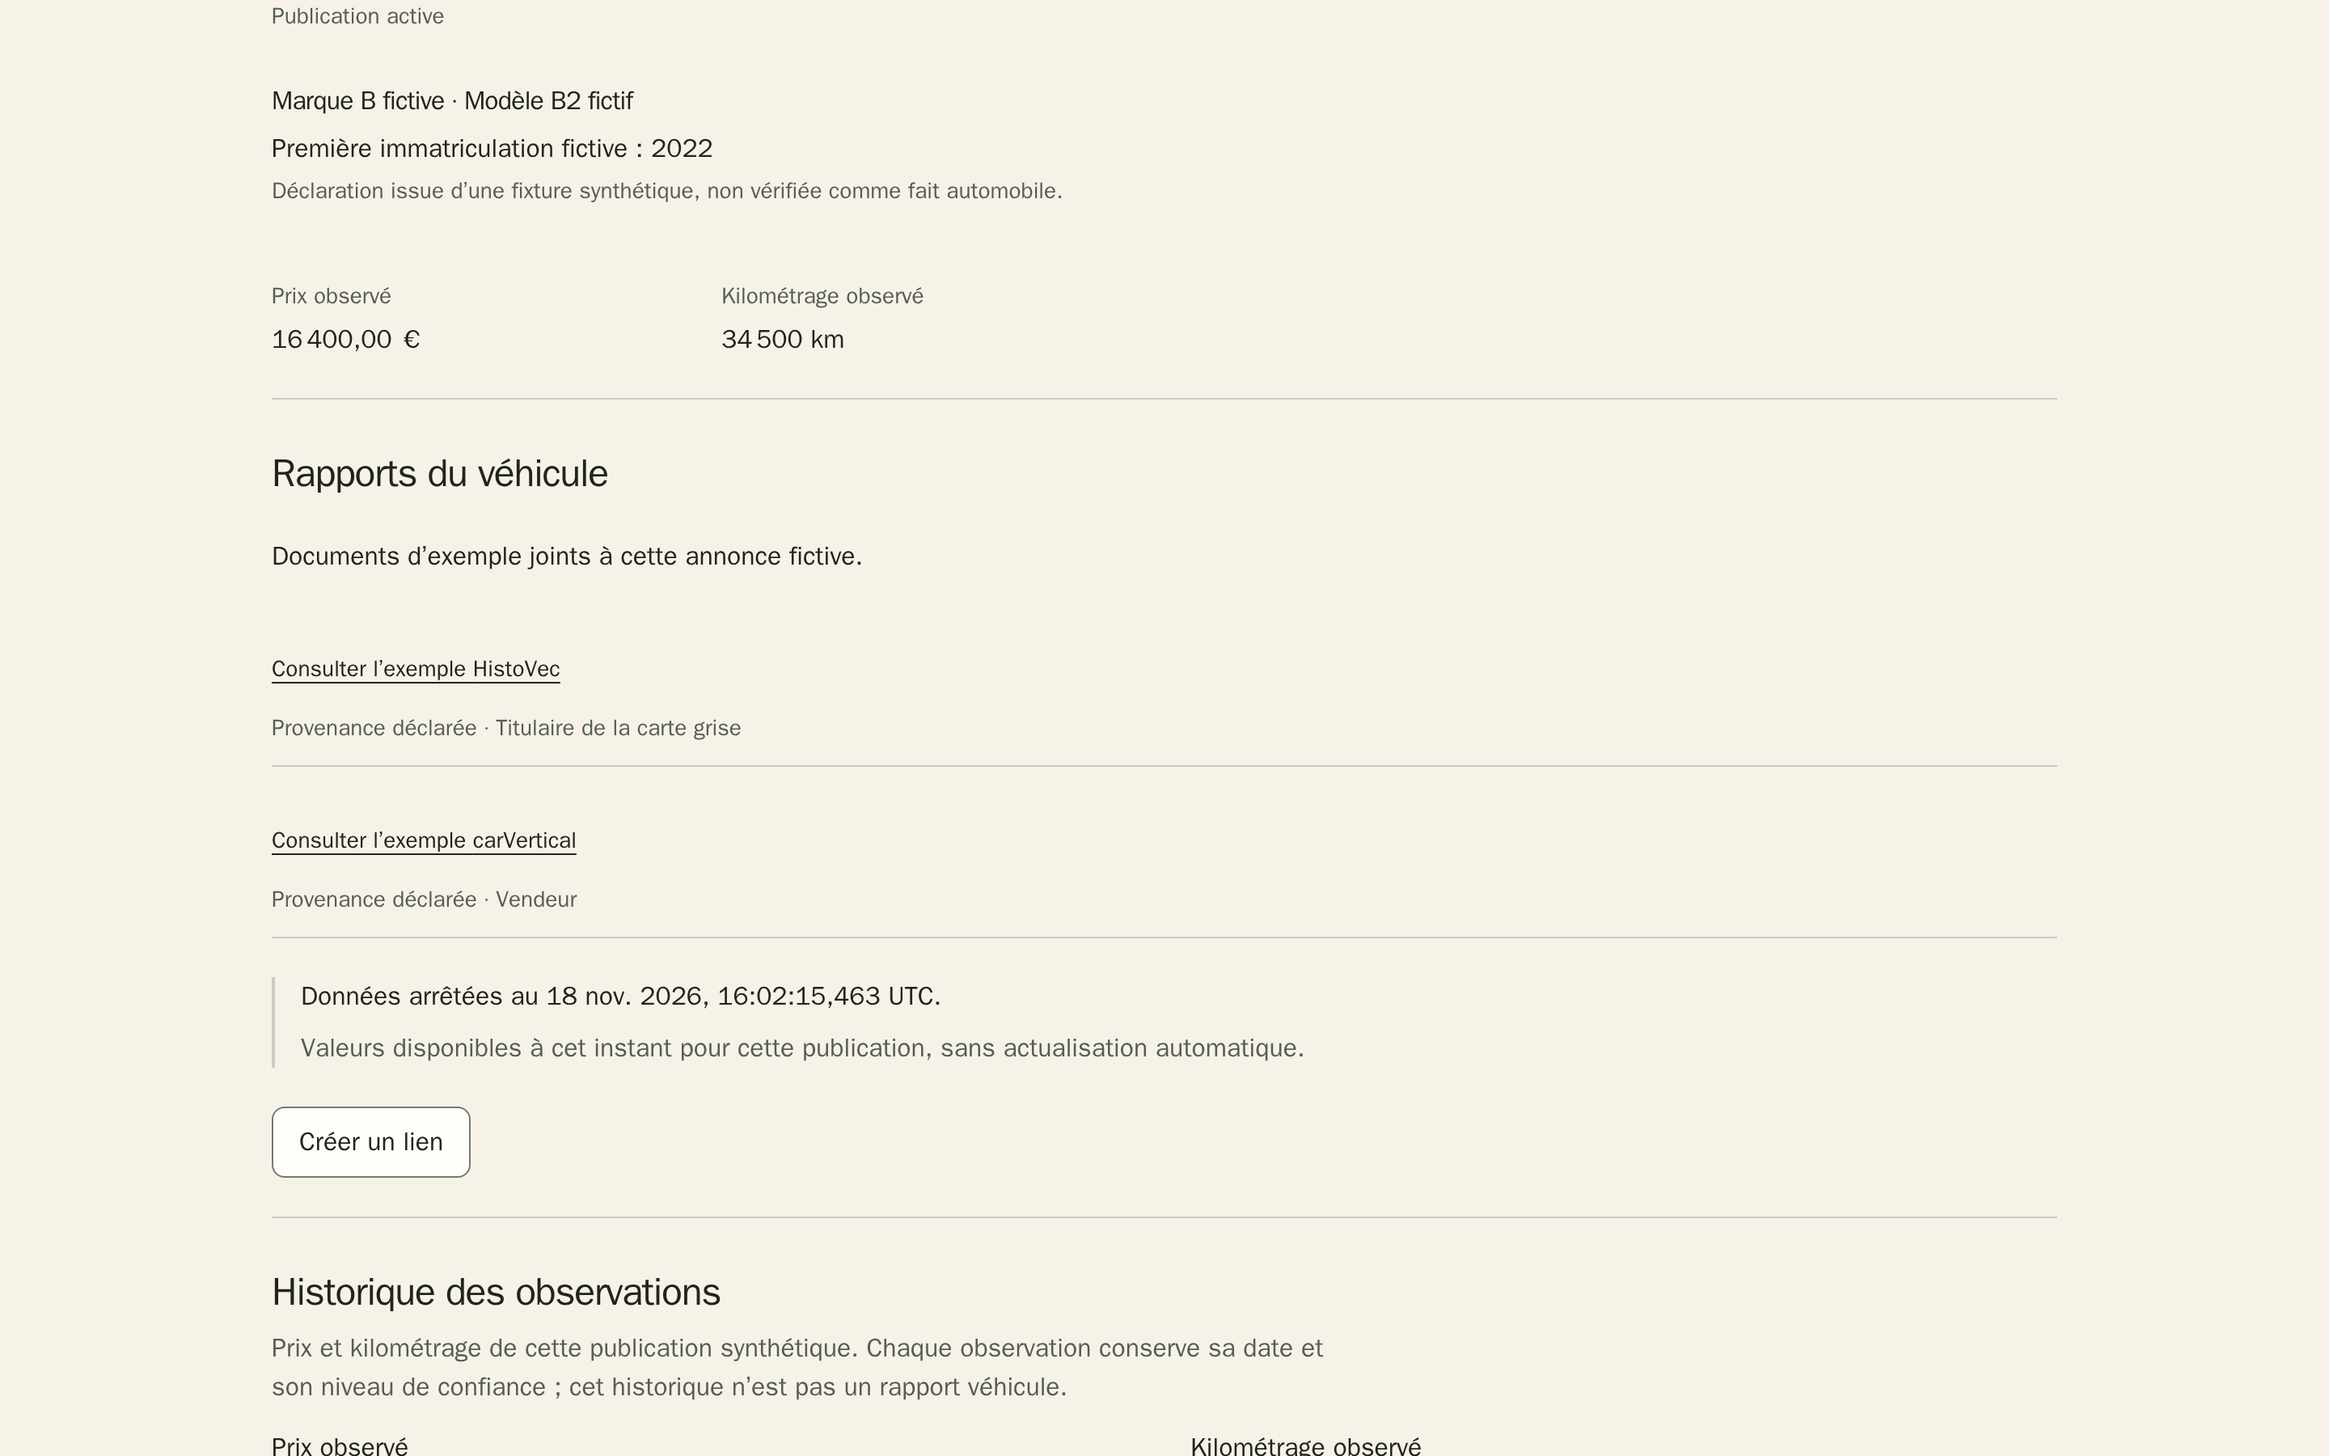
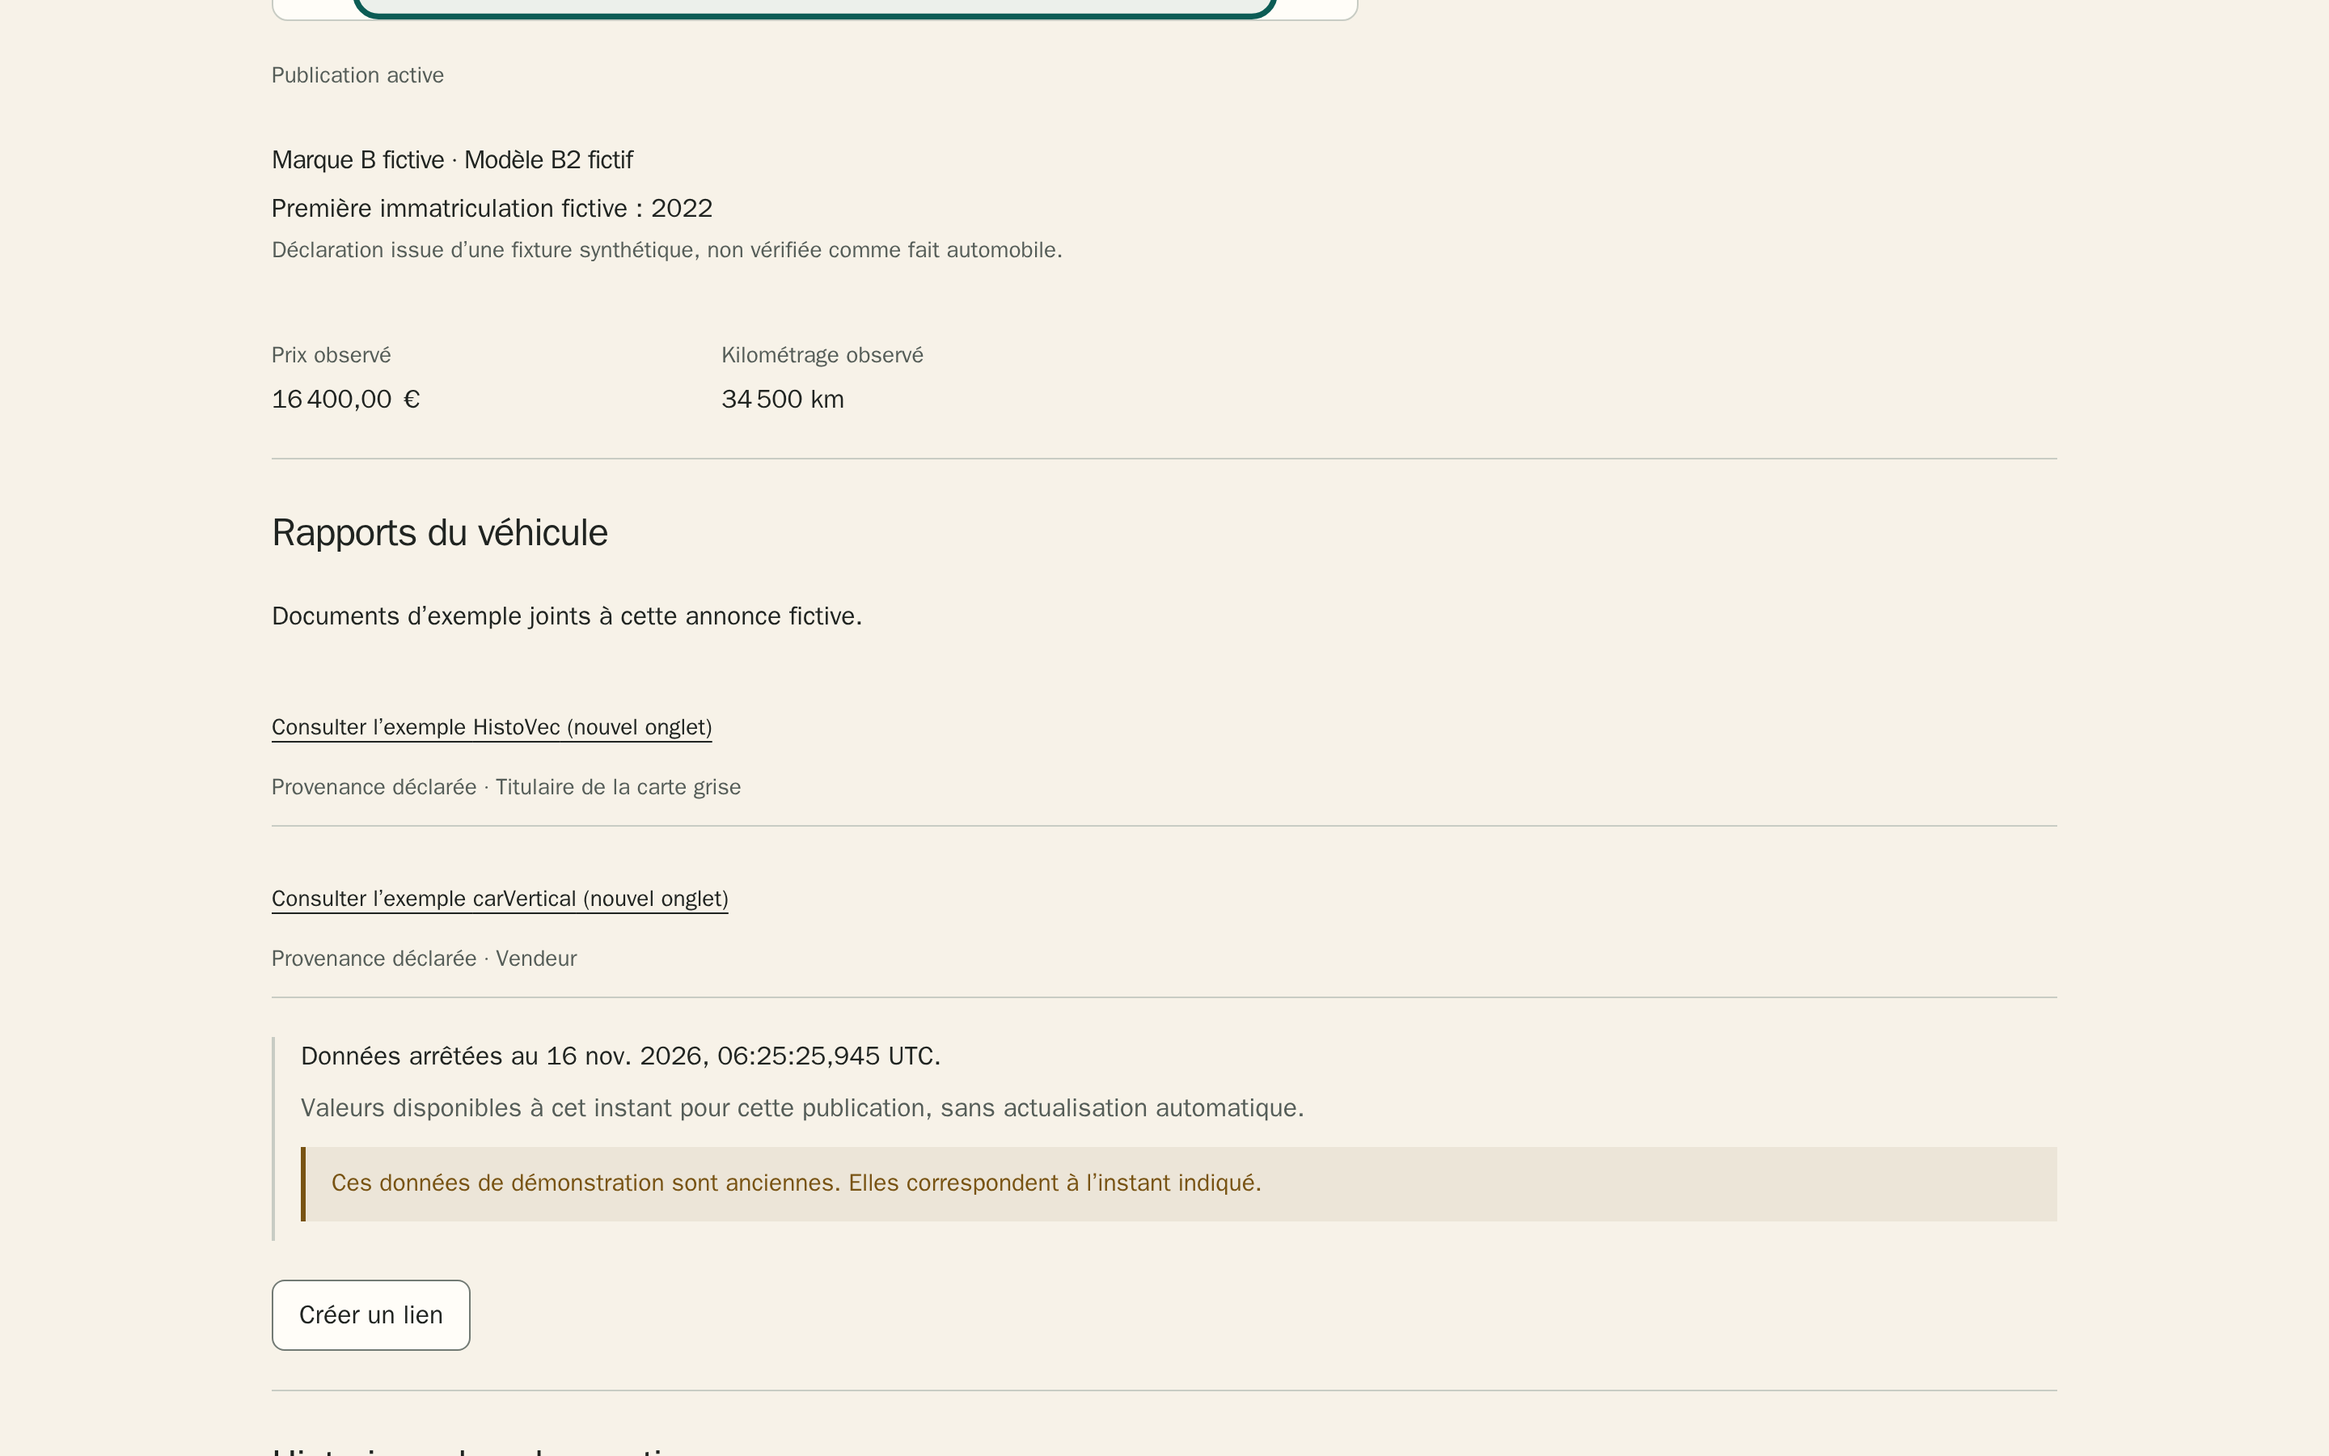
fix(web): preserve listing search and verify the active report corpus

diff --git a/apps/web/test/ui/vehicle-reports.spec.ts b/apps/web/test/ui/vehicle-reports.spec.ts
@@ -7,7 +7,7 @@ const empty = "lst_84b7ff767f88174f457564d86c2e36bcfaea6d1cef341b7c0b69645a25adb
 test("normal demo results open the supplied local documents and switch report sets with the listing", async ({ page, baseURL }) => {
   const external = new Set<string>();
   const documentRequests: string[] = [];
-  page.on("request", (request) => {
+  page.context().on("request", (request) => {
     const url = new URL(request.url());
     if (url.origin !== baseURL) external.add(url.origin);
     if (url.pathname.startsWith("/demo/rapports/")) documentRequests.push(url.pathname);
@@ -21,26 +21,36 @@ test("normal demo results open the supplied local documents and switch report se
   await expect(section.getByRole("link")).toHaveCount(2);
   expect(documentRequests).toEqual([]);
 
-  for (const [provider, document] of [["HistoVec", "b2-parcours"], ["carVertical", "b2-kilometrage"]] as const) {
-    const destination = `/demo/rapports/${multiple}/${document}`;
-    await section.getByRole("link", { name: new RegExp(provider, "u") }).click();
-    await expect(page).toHaveURL(new URL(destination, baseURL).href);
-    await expect(page.getByRole("heading", { level: 1 })).toContainText(provider);
-    await page.getByRole("link", { name: "Retour à l’annonce" }).click();
-    await expect(section).toBeVisible();
+  async function readReport(provider: string, listingId: string, document: string) {
+    const trigger = section.getByRole("link", { name: new RegExp(provider, "u") });
+    const [reader] = await Promise.all([page.waitForEvent("popup"), trigger.click()]);
+    const destination = `/demo/rapports/${listingId}/${document}#depuis-annonce`;
+    await expect(reader).toHaveURL(new URL(destination, baseURL).href);
+    await expect(reader.getByRole("heading", { level: 1 })).toContainText(provider);
+    await Promise.all([
+      reader.waitForEvent("close"),
+      reader.getByRole("link", { name: "Retour à l’annonce" }).click(),
+    ]);
+    await expect(page).toHaveURL(new URL(`/demo#detail/${listingId}`, baseURL).href);
   }
+
+  await readReport("HistoVec", multiple, "b2-parcours");
+  await readReport("carVertical", multiple, "b2-kilometrage");
+  await page.getByRole("button", { name: "Retour aux résultats" }).click();
+  await expect(page.locator("#demo-result-open-0")).toBeFocused();
+  await page.locator("#demo-result-open-0").click();
   await page.evaluate((id) => { location.hash = `detail/${id}`; }, single);
   await expect(section.getByRole("link")).toHaveCount(1);
-  await section.getByRole("link", { name: /CARFAX/u }).click();
-  await expect(page).toHaveURL(new URL(`/demo/rapports/${single}/b1-entretien`, baseURL).href);
-  await page.getByRole("link", { name: "Retour à l’annonce" }).click();
+  await readReport("CARFAX", single, "b1-entretien");
   await page.evaluate((id) => { location.hash = `detail/${id}`; }, empty);
-  await expect(section.getByRole("link")).toHaveCount(1);
   await expect(section.getByRole("link")).toHaveAttribute("href", "/historique-vehicule");
   expect(external.size).toBe(0);
 });
 
-test("the reader rejects swapped documents and disabled-demo access", async ({ request }, testInfo) => {
+test("the reader rejects swapped documents and disabled-demo access", async ({ page, request }, testInfo) => {
+  await page.goto(`/demo/rapports/${multiple}/b2-parcours`);
+  await page.getByRole("link", { name: "Retour à l’annonce" }).click();
+  await expect(page.getByRole("region", { name: "Rapports du véhicule" }).getByRole("link")).toHaveCount(2);
   const wrong = await request.get(`/demo/rapports/${single}/b2-parcours`);
   expect(wrong.status()).toBe(404);
   const disabled = String(testInfo.config.metadata.demoDisabledBaseURL);

diff --git a/apps/web/src/app/demo/rapports/[listingId]/[documentId]/page.tsx b/apps/web/src/app/demo/rapports/[listingId]/[documentId]/page.tsx
@@ -1,8 +1,12 @@
 import { connection } from "next/server";
 import { notFound } from "next/navigation";
 
-import { resolveDemoBackendMode } from "../../../../../demo/backend";
-import { providerLabels, reportsForListing } from "../../../../../demo/vehicle-reports";
+import { demoBackendOrigin, resolveDemoBackendMode } from "../../../../../demo/backend";
+import { parseDemoHttpOutcomeV2, parsePublicListingId } from "../../../../../demo/protocol";
+import { readDemoBackendText } from "../../../../../demo/proxy";
+import { providerLabels, reportFixtureVersion, reportsForListing } from "../../../../../demo/vehicle-reports";
+
+import { ReturnToListing } from "../../return-to-listing";
 
 export const metadata = { title: "Document d’exemple — Auto World" };
 
@@ -13,12 +17,27 @@ export default async function ExampleReportPage({ params }: {
   if (resolveDemoBackendMode() !== "offline") notFound();
   const { listingId, documentId } = await params;
   const report = reportsForListing(listingId).find((item) => item.id === documentId);
-  if (!report) notFound();
+  const id = parsePublicListingId(listingId);
+  if (!report || !id) notFound();
+
+  const signal = AbortSignal.timeout(7_000);
+  let fixtureVersion: string | undefined;
+  try {
+    const response = await fetch(`${demoBackendOrigin("offline")}/v2/demo/listings/${id}`, {
+      cache: "no-store", redirect: "error", signal,
+    });
+    const source = await readDemoBackendText(response, signal);
+    const outcome = parseDemoHttpOutcomeV2(source, response.status, new Date().toISOString(), id);
+    if (outcome?.ok) fixtureVersion = outcome.data.fixtureVersion;
+  } catch {
+    // An unavailable listing cannot confirm that this document belongs to the active corpus.
+  }
+  if (fixtureVersion !== reportFixtureVersion) notFound();
 
   return (
     <main className="site-container">
       <nav className="site-toolbar" aria-label="Publication">
-        <a className="site-nav" href={`/demo#detail/${report.listingId}`}>Retour à l’annonce</a>
+        <ReturnToListing listingId={report.listingId} />
       </nav>
       <article className="site-intro">
         <p>{report.vehicle}</p>

diff --git a/apps/web/src/demo/proxy.ts b/apps/web/src/demo/proxy.ts
@@ -80,6 +80,13 @@ async function readBounded(stream: ReadableStream<Uint8Array> | null, limit: num
 }
 function decodeUtf8(bytes: Uint8Array): string { return new TextDecoder("utf-8", { fatal: true }).decode(bytes); }
 
+export async function readDemoBackendText(response: Response, signal: AbortSignal): Promise<string> {
+  if (!/^application\/json(?:;\s*charset=utf-8)?$/iu.test(response.headers.get("content-type") ?? "")) throw new TypeError("expected JSON");
+  const declared = response.headers.get("content-length");
+  if (declared !== null && (!/^(?:0|[1-9][0-9]*)$/u.test(declared) || Number(declared) > responseLimit)) throw new RangeError("invalid response size");
+  return decodeUtf8(await readBounded(response.body, responseLimit, signal));
+}
+
 export function createDemoProxyHandler(options: DemoProxyOptions): (request: Request, listingId?: string) => Promise<Response> {
   const fetchImpl = options.fetchImpl ?? fetch;
   const clock = options.clock ?? (() => new Date());
@@ -150,11 +157,8 @@ export function createDemoProxyHandler(options: DemoProxyOptions): (request: Req
         redirect: "error",
       });
       if (controller.signal.aborted) return finish(localError("cancelled", schemaVersion), "cancelled");
-      if (!/^application\/json(?:;\s*charset=utf-8)?$/iu.test(upstream.headers.get("content-type") ?? "")) return finish(localError("read_unavailable", schemaVersion), "read_unavailable");
-      const declared = upstream.headers.get("content-length");
-      if (declared !== null && (!/^(?:0|[1-9][0-9]*)$/u.test(declared) || Number(declared) > responseLimit)) return finish(localError("read_unavailable", schemaVersion), "read_unavailable");
       let source: string;
-      try { source = decodeUtf8(await readBounded(upstream.body, responseLimit, controller.signal)); }
+      try { source = await readDemoBackendText(upstream, controller.signal); }
       catch {
         const code: DemoHttpErrorCode = controller.signal.aborted ? "cancelled" : "read_unavailable";
         return finish(localError(code, schemaVersion), code);

diff --git a/apps/web/src/app/demo/demo-app.tsx b/apps/web/src/app/demo/demo-app.tsx
@@ -49,6 +49,7 @@ import { ComparisonLinkReview, type ComparisonLinkLoadState, type ComparisonLink
 import { DetailSnapshot } from "./history-components";
 import { SaveComparisonControl, SavedComparisonsSection, type SaveComparisonResult } from "./saved-comparison-components";
 import { SavedSearchesSection } from "./saved-search-components";
+import { reportFixtureVersion } from "../../demo/vehicle-reports";
 import { VehicleReports } from "./vehicle-reports";
 import { PublicationLinkCreator, SearchLinkCreator, SearchLinkReview } from "./search-link-components";
 
@@ -1696,7 +1697,7 @@ export function DemoApp({ enabled, storageNamespace = "offline" }: { readonly en
               <NeutralIllustration />
               <p className="demo-status">{acceptedDetail.result.availability === "active" ? "Publication active" : acceptedDetail.result.availability === "withdrawn" ? "Publication retirée" : acceptedDetail.result.availability === "deleted" ? "Publication supprimée" : "Publication introuvable"}</p>
               <ResultSummary result={acceptedDetail.result} catalog={matchingCatalog(catalogData, acceptedDetail.response)} />
-              <VehicleReports listingId={acceptedDetail.result.listingId} hasExampleCorpus={storageNamespace === "offline" && acceptedDetail.response.fixtureVersion === "synthetic-description-v2"} />
+              <VehicleReports listingId={acceptedDetail.result.listingId} hasExampleCorpus={storageNamespace === "offline" && acceptedDetail.response.fixtureVersion === reportFixtureVersion} />
               <DetailSnapshot response={acceptedDetail.response} online={online} />
               <PublicationLinkCreator listingId={acceptedDetail.result.listingId} />
               <EvidenceDetails result={acceptedDetail.result} catalog={matchingCatalog(catalogData, acceptedDetail.response)} />

diff --git a/apps/web/src/app/demo/vehicle-reports.tsx b/apps/web/src/app/demo/vehicle-reports.tsx
@@ -11,8 +11,8 @@ export function VehicleReports({ listingId, hasExampleCorpus }: { readonly listi
           <ul className="demo-evidence-list">
             {reports.map((report) => (
               <li key={report.id}>
-                <a className="site-nav" href={report.href} referrerPolicy="no-referrer">
-                  Consulter l’exemple {providerLabels[report.provider]}
+                <a className="site-nav" href={`${report.href}#depuis-annonce`} target="_blank" rel="noopener noreferrer">
+                  Consulter l’exemple {providerLabels[report.provider]} (nouvel onglet)
                 </a>
                 <span>Provenance déclarée · {report.suppliedBy === "titulaire" ? "Titulaire de la carte grise" : "Vendeur"}</span>
               </li>

diff --git a/apps/web/src/app/demo/rapports/return-to-listing.tsx b/apps/web/src/app/demo/rapports/return-to-listing.tsx
@@ -1,0 +1,12 @@
+"use client";
+
+export function ReturnToListing({ listingId }: { readonly listingId: string }) {
+  return (
+    <a className="site-nav" href={`/demo#detail/${listingId}`} onClick={(event) => {
+      if (event.metaKey || event.ctrlKey || event.altKey || event.shiftKey) return;
+      if (window.location.hash === "#depuis-annonce" && window.history.length === 1) window.close();
+    }}>
+      Retour à l’annonce
+    </a>
+  );
+}

diff --git a/apps/web/src/demo/vehicle-reports.ts b/apps/web/src/demo/vehicle-reports.ts
@@ -1,4 +1,4 @@
-// Public identifiers from the normal synthetic-description-v2 search corpus.
+export const reportFixtureVersion = "synthetic-description-v2";
 const borealB2 = "lst_5696220ef97cf2af439e0279456ea36c70dd3df4e97b4455fc1577fa81aa8863";
 const borealB1 = "lst_5b1bfbea35a7f70ba8a6358f2c1dca6e4a243af7e2e95df49d127fcaae748c09";
 

diff --git a/docs/validation/TASK-0129.md b/docs/validation/TASK-0129.md
@@ -51,3 +51,9 @@ La consigne de validation proportionnée remplace le plan initial de doublon loc
 ## Objectif corrigé — rapports rattachés à une annonce
 
 La validation historique ci-dessus porte sur le guide de recours uniquement. Nouveau cadrage avant modification : [fiche révisée](../../roadmap/tasks/TASK-0129-histovec-message.md), [contrat](../decisions/ADR-0034-synthetic-listing-reports.md), même PR260 en draft, auteur Codex gpt-6.2-astra / ultra, départ a3ff10e6. La preuve attendue est le parcours de la démo synthétique normale, depuis des publications effectivement retournées par le moteur, puis l’ouverture des documents associés ou le recours en l’absence de pièce. Recette ciblée ; contrôles CI et revue finale par le parent.
+
+## Reprise de la revue du lecteur
+
+Sur f76bf65a, la fiche vérifiait la version du corpus et le lecteur autonome vérifiait uniquement le mode et le rattachement. Le lecteur contrôle désormais le détail en cours auprès de l’API locale, avec la même version attendue que la fiche. Un essai isolé rejouant la même annonce B2 avec deux versions successives donne HTTP 200 pour v2, 404 pour v3 et 200 au retour à v2.
+
+Chaque document s’ouvre dans un nouvel onglet annoncé. « Retour à l’annonce » le ferme lorsque la lecture est partie de la fiche. La fiche, sa recherche et ses résultats restent disponibles dans l’onglet d’origine. Un document ouvert directement conserve son lien ordinaire vers sa fiche. Les essais sur Chromium et WebKit ouvrent les trois documents, reviennent aux résultats avec focus sur la carte et vérifient le recours de la fiche sans pièce. Les captures mobile et bureau ci-dessus ont été renouvelées. Aucun service tiers ni stockage supplémentaire.
